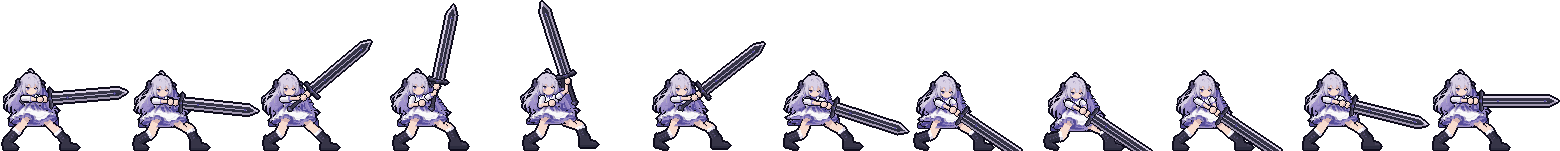
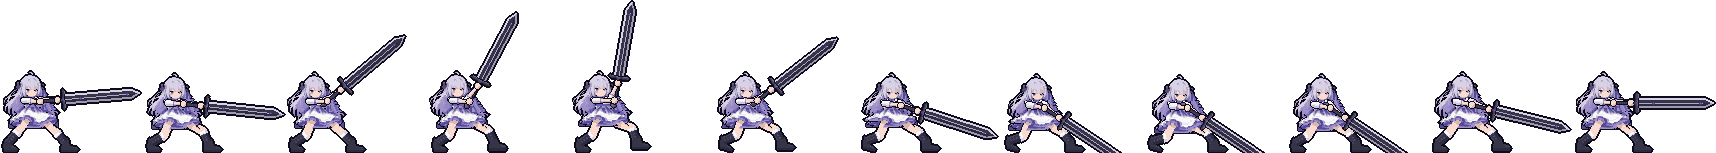
Step 17: rear hand holds the pommel end in every frame
Claude-Session: https://claude.ai/code/session_01HxjqkUSQep4dPnHwHokXph

Changed region(s): [[0.0, 0.0, 1.0, 1.0]]

diff --git a/swingkit/anim.py b/swingkit/anim.py
@@ -13,9 +13,14 @@ from .rig import V, Canvas, Sword, arm, fist, body, finish
 S_NEAR = np.array([20.0, 29.5])     # viewer-left shoulder (arm crosses in front)
 S_FAR = np.array([35.5, 29.0])      # viewer-right shoulder
 
+# Rear (near) hand holds the base of the handle just above the pommel in every frame; the front
+# (far) hand is near the guard. GRIP_SPAN is the distance between them along the grip
+# (the sword's grip runs 21 px from the guard-side hand to the pommel end).
+GRIP_SPAN = 17.5
+
 def two_hand(theta, Hl):
     th = np.radians(theta); d = np.array([np.cos(th), -np.sin(th)])
-    Hl = np.array(Hl, float); Hu = Hl + 5 * d
+    Hl = np.array(Hl, float); Hu = Hl + GRIP_SPAN * d
     return Hl, Hu
 
 # Each frame: sword angle, hand(s), body offsets, hair sway, arm routing, draw order
@@ -37,15 +42,16 @@ Hl, Hu = two_hand(40, (39.5, 27.5))
 F(name='rise1', ms=90, theta=40, H=Hu, Hl=Hl, head=(-1, 0), torso=(-1, 0), skirt=(0, 0), sway=1,
   far=dict(to=Hu, sleeve=3.5, rs=2.6), near=dict(to=Hl), fists=[Hu, Hl],
   order=['body', 'far', 'grip', 'near', 'fists', 'guard', 'blade'])
-# 3 RISE 2 - near hand lets go to a guard fist at the waist, far hand carries the sword up
-F(name='rise2', ms=80, theta=78, H=(42.5, 16.5), Hl=None, head=(-2, -1), torso=(-1, -1), skirt=(0, 0), sway=1,
-  far=dict(to=(42.5, 16.5), elbow=(40.5, 23.5), sleeve=3.5, rs=2.6),
-  near=dict(to=(28.0, 33.0), elbow=(16.5, 35.5)), fists=[(42.5, 16.5), (28.0, 33.0)],
+# 3 RISE 2 - both hands carry the sword up; rear hand stays on the pommel end
+Hl, Hu = two_hand(62, (36.5, 29.5))
+F(name='rise2', ms=80, theta=62, H=Hu, Hl=Hl, head=(-2, -1), torso=(-1, -1), skirt=(0, 0), sway=1,
+  far=dict(to=Hu, sleeve=3.5, rs=2.6), near=dict(to=Hl), fists=[Hu, Hl],
   order=['body', 'grip', 'far', 'near', 'fists', 'guard', 'blade'])
-# 4 PEAK - one-handed high guard at ear height, blade leaning back OVER the head
-F(name='peak', ms=250, theta=108, H=(43.5, 11.0), Hl=None, head=(-2, -1), torso=(-1, -1), skirt=(0, 0), sway=0,
-  far=dict(to=(43.5, 11.0), elbow=(42.0, 21.0), sleeve=3.5, rs=2.6),
-  near=dict(to=(28.0, 33.0), elbow=(16.5, 35.5)), fists=[(43.5, 11.0), (28.0, 33.0)],
+# 4 PEAK - two-handed high guard beside the head, blade near upright (the pommel is in the
+# rear hand, so the blade cannot lean back over the head)
+Hl, Hu = two_hand(80, (38.5, 28.5))
+F(name='peak', ms=250, theta=80, H=Hu, Hl=Hl, head=(-2, -1), torso=(-1, -1), skirt=(0, 0), sway=0,
+  far=dict(to=Hu, elbow=(47.0, 20.0), sleeve=3.5, rs=2.6), near=dict(to=Hl), fists=[Hu, Hl],
   order=['body', 'grip', 'far', 'near', 'fists', 'guard', 'blade'], glint=True)
 # 5 SMEAR A - both hands rejoin on the grip, blade sweeping over the top
 Hl, Hu = two_hand(38, (40.5, 27.5))
@@ -92,7 +98,7 @@ HIPS = dict(
     impact=dict(hip=(2, 3), torso=(0, 0), head=(0, 0), lean=3),
     plume1=dict(hip=(2, 4), torso=(0, 0), head=(0, 0), lean=3),
     plume2=dict(hip=(2, 3), torso=(0, 0), head=(0, 0), lean=2),
-    settle=dict(hip=(2, 2), torso=(0, 0), head=(0, 0), lean=2),
+    settle=dict(hip=(2, 3), torso=(0, 0), head=(0, 0), lean=2),   # stays down while the blade is buried
     recover1=dict(hip=(1, 1), torso=(0, 0), head=(0, 0), lean=1),
     recover2=dict(hip=(0, 1), torso=(0, 0), head=(0, 0), lean=0),
 )
@@ -202,7 +208,7 @@ SHOULDERS = dict(
     impact=dict(near=(1.0, 1.5), far=(0.5, 1.0), near_sleeve=-1.0, rs=0.4),
     plume1=dict(near=(1.0, 1.5), far=(0.5, 1.0), near_sleeve=-1.0, rs=0.4),
     plume2=dict(near=(0.5, 1.0), far=(0.5, 0.5), near_sleeve=-0.5, rs=0.2),
-    settle=dict(near=(0.5, 0.5)),
+    settle=dict(near=(0.5, 1.0), far=(0.5, 1.0), near_sleeve=-0.5, rs=0.2),   # still braced on the buried blade
     recover1=dict(),
     recover2=dict(),
 )
@@ -223,6 +229,22 @@ def by_name(name):
     return FRAMES[index(name)]
 
 FRAMES[:] = [_rebase(fr, HIPS[fr['name']]) for fr in FRAMES]
+# ---------------------------------------------------------------- grip (step 17)
+# Rear (near) hand position per frame in final sprite coordinates, solved so both arms stay in
+# their design ranges (near 16-20.5 px, far 6-20 px) with the rear arm below the chin. The front
+# hand is always GRIP_SPAN further along the grip. While the blade is buried (impact, plume1,
+# settle) the grip stays fixed in the world as the body moves.
+REAR_HAND = dict(ready=(36.3, 30.5), dip=(36.5, 33.0), rise1=(37.5, 30.0), rise2=(36.5, 30.5),
+                 peak=(38.5, 29.5), smearA=(38.5, 29.5), smearB=(39.0, 34.5),
+                 impact=(39.5, 37.0), plume1=(39.5, 37.0), settle=(39.5, 37.0),
+                 recover1=(38.0, 34.0), recover2=(36.5, 32.0))
+
+for fr in FRAMES:
+    Hl, Hu = two_hand(fr['theta'], REAR_HAND[fr['name']])
+    fr['Hl'] = tuple(Hl); fr['H'] = tuple(Hu); fr['fists'] = [tuple(Hu), tuple(Hl)]
+    fr['far'] = dict(fr['far'], to=tuple(Hu), elbow=None)
+    fr['near'] = dict(fr['near'], to=tuple(Hl), elbow=None)
+
 for fr in FRAMES:
     ft = FEET[fr['name']]
     fr['legs']['right']['ankle'] = ft['right']

diff --git a/swingkit/checks.py b/swingkit/checks.py
@@ -53,6 +53,20 @@ def check_feet_planted():
     return not bad, 'planted feet on the ground' if not bad else '; '.join(bad)
 
 
+def check_rear_hand_on_pommel():
+    """The rear (near) hand holds the base of the handle in every frame: it sits exactly
+    GRIP_SPAN below the front hand along the grip, just above the pommel."""
+    bad = []
+    for i, fr in enumerate(anim.FRAMES):
+        if fr.get('Hl') is None:
+            bad.append(f'frame {i+1} rear hand off the grip'); continue
+        th = np.radians(fr['theta']); d = np.array([np.cos(th), -np.sin(th)])
+        want = np.array(fr['H'], float) - anim.GRIP_SPAN * d
+        if np.linalg.norm(np.array(fr['Hl'], float) - want) > 0.01 or np.linalg.norm(np.array(fr['near']['to']) - want) > 0.01:
+            bad.append(f'frame {i+1} rear hand not on the pommel end')
+    return not bad, 'rear hand on the pommel end in every frame' if not bad else '; '.join(bad)
+
+
 def check_face_clear():
     hits = []
     for i, fr in enumerate(anim.FRAMES):
@@ -88,6 +102,7 @@ def check_gif(path, frames, scale):
 def run_all(frames=None, gif_paths=()):
     results = [('frame count', check_frame_count()), ('arm lengths', check_arm_lengths()),
                ('leg lengths', check_leg_lengths()), ('planted feet', check_feet_planted()),
+               ('rear grip', check_rear_hand_on_pommel()),
                ('face clearance', check_face_clear()), ('layer tiling', check_tiling())]
     for p, s in gif_paths:
         results.append((f'gif x{s}', check_gif(p, frames, s)))

diff --git a/tests/test_checks.py b/tests/test_checks.py
@@ -17,6 +17,10 @@ def test_feet_planted():
     ok, msg = checks.check_feet_planted(); assert ok, msg
 
 
+def test_rear_hand_on_pommel():
+    ok, msg = checks.check_rear_hand_on_pommel(); assert ok, msg
+
+
 def test_face_clear():
     ok, msg = checks.check_face_clear(); assert ok, msg
 

diff --git a/Current_Work.md b/Current_Work.md
@@ -211,23 +211,24 @@ frames or fewer.
 - Signed off: Claude, 2026-09-28
 
 ### Step 17. Rear hand grips the pommel end the whole time
-- [ ] User request (2026-09-28): the rear (near) arm no longer lets go during the raise or
+- [x] User request (2026-09-28): the rear (near) arm no longer lets go during the raise or
       re-grips near the guard. It holds the base of the handle, just above the pommel, in every
       frame; the front (far) hand stays near the guard.
-- [ ] Re-pose the two-handed frames with the new hand spacing, and make the rise and peak
+- [x] Re-pose the two-handed frames with the new hand spacing, and make the rise and peak
       two-handed. With the pommel in the rear hand the blade cannot lean back over the head at the
       peak (the pommel would be out of reach), so the peak becomes a two-handed near-upright guard
       beside the head.
 - Acceptance: rear hand on the pommel end in all 12 frames; arm lengths in range; face clearance
   passes; all checks and tests pass.
-- Status: IN PROGRESS (Claude, 2026-09-28)
-- Result:
-- Signed off:
+- Status: DONE
+- Result: The rear (near) hand now holds the base of the handle, 17.5 px down the grip from the front hand and just above the pommel, in all 12 frames (`anim.GRIP_SPAN`, `anim.REAR_HAND`); rise and peak are two-handed. Hand positions were solved per frame so both arms stay in range and nothing covers the face. Consequences: the peak is now a two-handed near-upright guard beside the head (the blade can no longer lean back over the head), and during settle she stays braced low on the buried blade (hips and front shoulder held down) because rising would over-stretch the front arm. New rear-grip check and test. All 9 checks and 8 tests pass.
+- Signed off: Claude, 2026-09-28
 
 ## Open questions
 - None.
 
 ## Log
+- 2026-09-28: Step 17 (rear hand on the pommel end) done. Hand positions live in `anim.REAR_HAND` in final coordinates; keep the buried-blade frames on one shared grip. (Claude)
 - 2026-09-28: Step 16 (lead foot toes forward) done. Foot shape per leg lives in `rig.LEG_NEUTRAL`. (Claude)
 - 2026-09-28: Step 15 (ankles) done. Feet are drawn with the shin in `rig._foot_mask`; the hand-drawn foot grids are gone. (Claude)
 - 2026-09-28: Step 14 done: both feet and both knees now point toward the strike. Do not reintroduce outward toes on the back leg. (Claude)

diff --git a/README.md b/README.md
@@ -58,16 +58,17 @@ measurements, never scaled, so proportions stay identical.
 | 1 | ready | 320 | Original design pose, two hands, blade forward, both feet planted |
 | 2 | dip | 80 | Down before up: knees bend, blade dips below the ready line |
 | 3 | rise1 | 90 | Both hands lift the blade; weight rocks back onto the rear leg, body leans back |
-| 4 | rise2 | 80 | Near hand lets go to a guard fist; front foot lifts; eyes look up at the blade |
-| 5 | peak | 250 | One-handed high guard, blade over the head, glint; front foot 3 px up, far shoulder lifted |
-| 6 | smearA | 50 | Hands rejoin, smear over the top; rear heel lifts onto the toe, front foot travels |
+| 4 | rise2 | 80 | Both hands carry the blade up (rear hand on the pommel end); front foot lifts; eyes look up |
+| 5 | peak | 250 | Two-handed high guard beside the head, blade near upright, glint; front foot 3 px up |
+| 6 | smearA | 50 | Smear over the top; rear heel lifts onto the toe, front foot travels |
 | 7 | smearB | 40 | Body drops and leans into the strike; near shoulder drives down; hair and hem lift |
 | 8 | impact | 110 | Blade buried, front foot stomps 4 px forward, knees bent, sleeves squash, flash, dirt, shake |
-| 9-10 | plume1, settle | 90, 120 | Dust plume and debris; body overshoots 1 px lower, skirt bounces, hair swings and settles |
+| 9-10 | plume1, settle | 90, 120 | Dust plume and debris; body stays braced low on the buried blade, skirt bounces, hair settles |
 | 11-12 | recover1, recover2 | 110, 130 | Blade pulled free, front foot steps back, ease into frame 1 |
 
 Techniques: the fast part of the swing is carried by smear frames instead of in-between poses;
-hands never go above head height (the sword provides the height). Legs are two fixed-length
+hands never go above head height (the sword provides the height). The rear hand holds the base
+of the handle, just above the pommel, in every frame (`anim.REAR_HAND`, `anim.GRIP_SPAN`). Legs are two fixed-length
 segments solved by inverse kinematics, so the hips can drop and the knees bend without changing
 leg length; the front foot steps and stomps while planted feet are checked to stay on the ground.
 The torso leans row by row while the head moves as one rigid piece (the face is never sheared).
